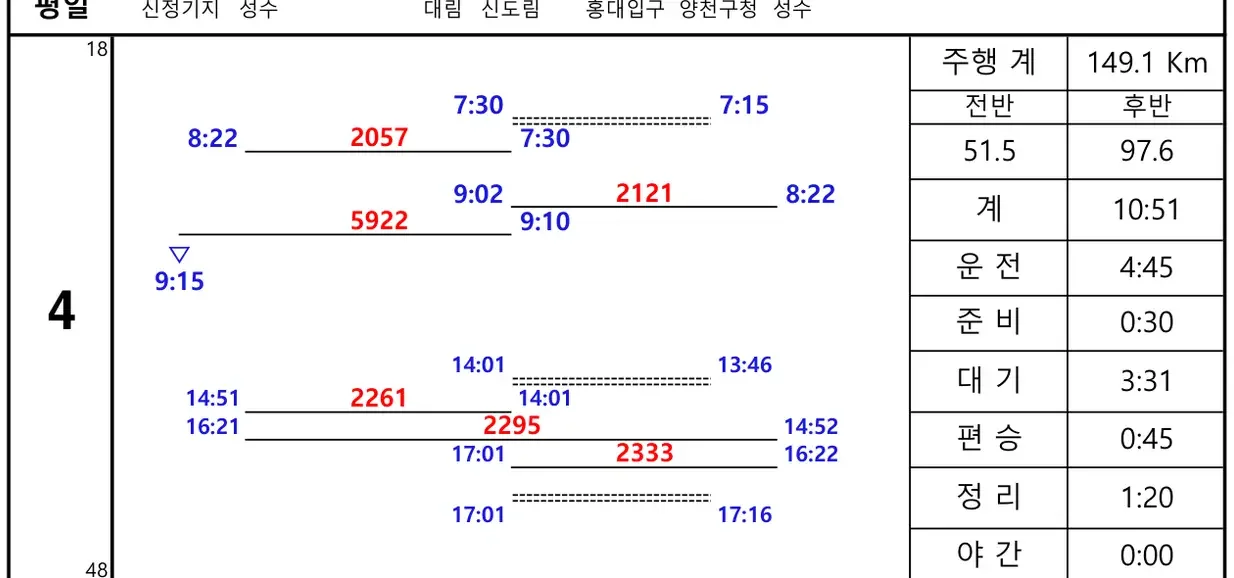
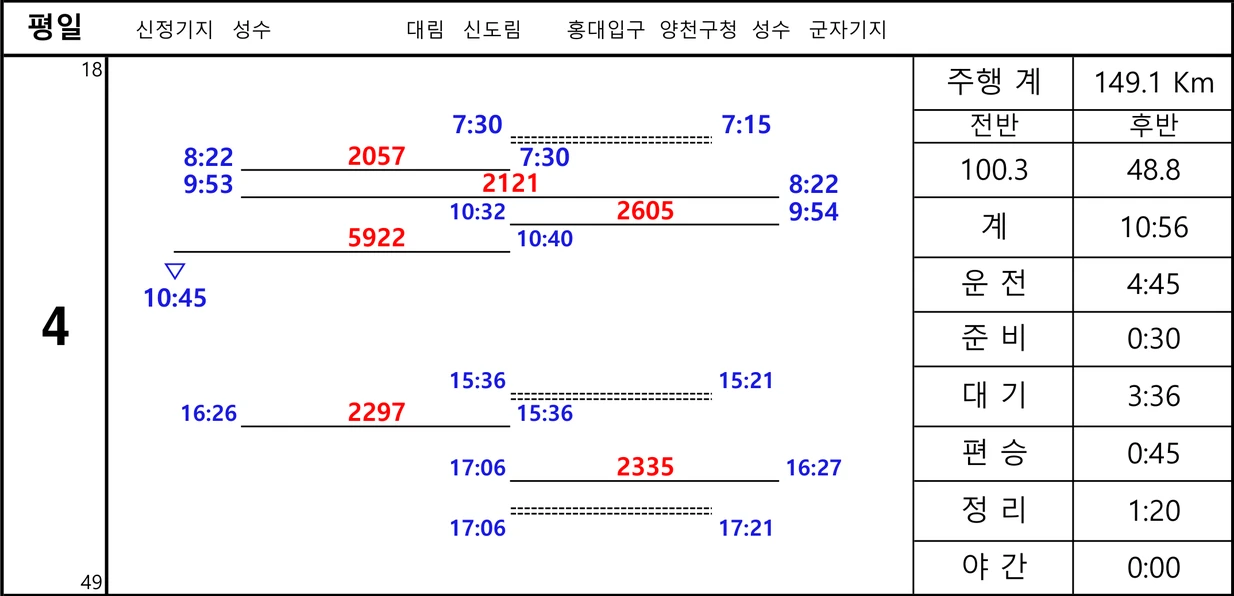
v1.6.57 (69) · 본선 평일 4·7 행로표 그림을 개정판으로 교체
v1.6.54가 4·7의 시각 데이터만 고치고 그림은 옛 판을 뒀던 탓에,
4번 상세시트가 알람 칩 `후반 15:16` 옆에 후반 13:46/14:01짜리
그림을 붙여 놓고 있었다. 사용자 승인 후 그림을 맞췄다.

- `assets/routes/wd_4.webp`·`wd_7.webp` 두 장만 교체.
  출처는 v1.6.54와 같은 2026-08-23 회사 배포 `4 7개정 행로표` PDF
  (2쪽 = 4번 · 3쪽 = 7번). 300dpi 벡터 렌더라 기존 스캔보다 선명.
  1234x578 -> 1234x596 (폭 동일, 비율은 코드가 매번 계산해 무관).
- 옛 wd_4는 전반만 4번이고 통계·후반은 7번 것이 섞여 있었다:
  교번 18-48 / 51.5·97.6 / 계 10:51 / ▽9:15 / 후반 2261·2295·2333
  -> 18-49 / 100.3·48.8 / 10:56 / ▽10:45 / 후반 2297·2335.
- MainLegs.kt는 이미지가 아직 개정 전이라던 경고 주석만 갱신.
  시각·열번 데이터는 v1.6.54 확정값 그대로 무변경.
- 그림 <-> MainLegs.WEEKDAY <-> RouteTable 전수 대조 어긋남 0건.
  실화면에서 4번 그림 15:21 <-> 칩 15:16, 7번 13:46 <-> 칩 13:46 일치.
  bwd_4·wd_10·wd_18 등 나머지 행로표 무사. 63 tests OK.

diff --git a/app/src/main/java/com/sinjeong/crewcalendar/domain/model/MainLegs.kt b/app/src/main/java/com/sinjeong/crewcalendar/domain/model/MainLegs.kt
@@ -15,8 +15,8 @@ object MainLegs {
         //              후반 편승 15:21 → 신도림 15:36 발 2297·2335 → 17:06 → 퇴근 17:21. 계 10:56.
         // 개정 PDF 7번: 전반 편승 7:26 → 7:41 발 2060·2114·6928 ▽9:19 /
         //              후반 편승 13:46 → 신도림 14:01 발 2261·2295·2333 → 17:01 → 퇴근 17:16. 계 10:41.
-        // 전반 두 칸은 개정 전후가 같아 그대로다. ⚠ 번들 행로표 이미지 `wd_4`·`wd_7`은 2023.10.04판이라
-        // 아직 개정 전 배치를 보여 준다(교체 여부는 사용자 결정 대기).
+        // 전반 두 칸은 개정 전후가 같아 그대로다. 번들 행로표 이미지 `wd_4`·`wd_7`은 v1.6.57에서
+        // 개정 PDF 원본으로 교체돼 이제 이 값과 일치한다(그림 후반 4 = 15:36 · 7 = 14:01).
         4 to listOf("7:30", "10:45", "15:36", "17:21"),
         5 to listOf("7:47", "10:55", "15:20", "17:05"),
         6 to listOf("7:52", "11:00", "15:26", "17:26"),

diff --git a/docs/project-notes.md b/docs/project-notes.md
@@ -715,6 +715,77 @@ UTF-8 24바이트라 16이면 막힌다(`size()`가 바이트든 문자든 32면
 - 실화면 확인: 달력 `교체38` 칩이 노란 대기색 + 야간 초승달 + 출근시각 `19:08`, 상세시트에
   `교체 38 다이아 대행 (평평)` + 38번 행로표, 익일 자동 비번, 되돌리기 정상.
 
+## v1.6.57 — 본선 평일 4·7 행로표 **그림**을 개정판으로 교체 (v1.6.54의 나머지 절반)
+
+v1.6.54는 4·7 다이아의 **시각 데이터**만 고쳤고 화면에 뜨는 **그림은 옛 판 그대로** 뒀다.
+그래서 4번 상세시트를 열면 **알람 칩은 `후반 15:16`인데 그림 속 후반은 13:46/14:01** —
+같은 화면이 서로 다른 말을 하고 있었다. 사용자가 교체를 승인해 이번에 그림을 맞췄다.
+
+교체한 것은 `app/src/main/assets/routes/`의 **`wd_4.webp`·`wd_7.webp` 두 장뿐**이다.
+출처는 v1.6.54와 같은 **2026-08-23 회사 배포 `4 7개정 행로표` PDF**(2쪽 = 4번 · 3쪽 = 7번).
+300dpi로 렌더해 패널 테두리만 잘라 폭 1234로 맞췄다 — **스캔이 아니라 벡터 원본**이라
+기존 에셋(2023.10.04판 스캔)보다 선명하다. 규격 1234×578 → **1234×596**(폭 동일, 높이 +18px).
+`RouteImageInline`이 높이를 `w * bitmap.height / bitmap.width`로 매번 계산하므로
+비율 하드코딩이 없다 — `wd_5`가 이미 628이라 높이가 제각각인 것도 원래 정상이다.
+
+### 옛 `wd_4`는 **전반만 4번이고 통계·후반은 7번 것**이었다
+
+단순히 후반만 바뀐 게 아니라 한 장 안에 두 다이아가 섞여 있었다:
+
+| | 옛 `wd_4` | 개정 원본 = 새 `wd_4` |
+|---|---|---|
+| 교번 | 18-**48** | 18-**49** |
+| 전반/후반 거리 | 51.5 / 97.6 ← **7번 값** | **100.3 / 48.8** |
+| 계 | 10:51 | **10:56** |
+| 전반 열차 | 2057·2121·5922 | 2057·2121·**2605**·5922 |
+| 전반 종료 | ▽ 9:15 | **▽ 10:45** |
+| 후반 | 13:46 → 14:01 · 2261·2295·2333 ← **7번 것** | **15:21 → 15:36 · 2297·2335** |
+
+즉 51.5/97.6은 원래부터 7번 값이었고, 새 `wd_7`에 그대로 들어 있다(교번 24-48 · 계 10:41).
+
+### 그림 ↔ 데이터 전수 대조 (어긋난 곳 0건)
+
+데이터는 v1.6.54에서 확정된 것이라 **손대지 않고 그림만 맞춘 뒤 대조**했다.
+
+| | 그림(새 에셋) | `MainLegs.WEEKDAY` | `RouteTable.MAIN_DAY_WEEKDAY` |
+|---|---|---|---|
+| 4 | 7:30 · ▽10:45 · 15:36 · 17:21 | `7:30,10:45,15:36,17:21` ✅ | `2057·2121·2605·5922` / `2297·2335` / 10:56 ✅ |
+| 7 | 7:41 · ▽9:19 · 14:01 · 17:16 | `7:41,9:19,14:01,17:16` ✅ | `2060·2114·6928` / `2261·2295·2333` / 10:41 ✅ |
+
+`MainLegs.kt`에 남아 있던 *"⚠ 번들 행로표 이미지는 2023.10.04판이라 아직 개정 전 배치를
+보여 준다(교체 여부는 사용자 결정 대기)"* **주석만** 현재 상태로 갱신했다(값은 무변경).
+그 경고를 그대로 뒀다면 다음 세션이 "그림이 아직 옛 판"이라고 잘못 읽는다.
+
+### 실화면 확인 — 그림과 칩이 이제 같은 곳을 가리킨다
+
+| 다이아 | 그림 속 편승(양천구청) | 알람 칩 | 관계 |
+|---|---|---|---|
+| 4 후반 | **15:21** | **후반 15:16** | 편승시각표에서 고른 열차 −5분 |
+| 7 후반 | **13:46** | **후반 13:46** | 고른 열차가 13:51이라 −5분이 그림값과 우연히 같다 |
+
+**칩이 그림의 점선을 그대로 읽는 게 아니다**(v1.6.29~30 규칙 그대로) — 실제 편승시각표에서
+신도림 출발 10~21분 전 열차를 고른 뒤 5분을 뺀다. 그래서 4번은 −5가 눈에 보이고 7번은
+안 보이는데, **둘 다 정상**이다. 종전처럼 15:16 칩 옆에 13:46 그림이 붙는 일만 없으면 된다.
+
+- 확대(`RouteImageDialog`) · 90도 회전에서 글자 깨짐 없음(벡터 원본이라 오히려 또렷).
+- 무사 확인: 본선 `wd_18`(교번 16-59)·`wd_10`(교번 21-83) 그대로, 지선 `bwd_4`(5557·5562…) 그대로.
+  `bwd_*`는 **branch weekday**이지 "big"이 아니다 — 지선은 완전히 다른 표라 손대면 안 된다.
+- 라이트/다크 정상. 63 tests OK(JUnitCore 직접 실행 — `./gradlew test`는 한글 경로 문제 그대로).
+
+### 에뮬레이터에서 본선 다이아를 여는 법 (다음 세션용)
+
+사용자 계정은 **지선**이라 본선 4·7 시트가 달력에 안 뜬다. 앱에서 근무선택을 누르면
+**Firestore에 써지므로** `shared_prefs/local_user.xml`을 직접 고쳐서 봤다:
+`role=DRIVER_MAIN` · `patternId=bundled-main` · `patternOffset` = (원하는 교번의
+`MAIN_PATTERN` 인덱스 − anchor 2026-07-01부터의 일수). 8/27은 57일째라 **offset 18 → 4번**,
+**offset 66 → 7번**.
+
+⚠ **`FirestoreUserRepository`는 `init`에서 앱 시작마다 로컬 사용자를 서버로 미러한다.**
+가짜 프로필이 공용 명단에 새어나가지 않도록 이번엔 ① 에뮬레이터를 오프라인으로 돌리고
+② Firebase 인증 store를 지워 `ensureAuth()`가 실패하게 만들어(= `publish`가 조기 return)
+쓰기가 아예 큐잉조차 안 되게 했다. 끝나고 Firestore 로컬 캐시를 지운 뒤 `shared_prefs`를
+백업본으로 통째 원복했다 — 원복 후 달력이 교체 전 첫 스크린샷과 동일함을 확인.
+
 ## v1.6.56 — 회차 중 열차 아이콘이 사라지던 버그 (신도림·까치산 양쪽)
 
 사용자 원문: *"열차 아이콘이 신도림역에 도착하면 운전실을 바꾸어서 방향만 반대방향으로 다시
